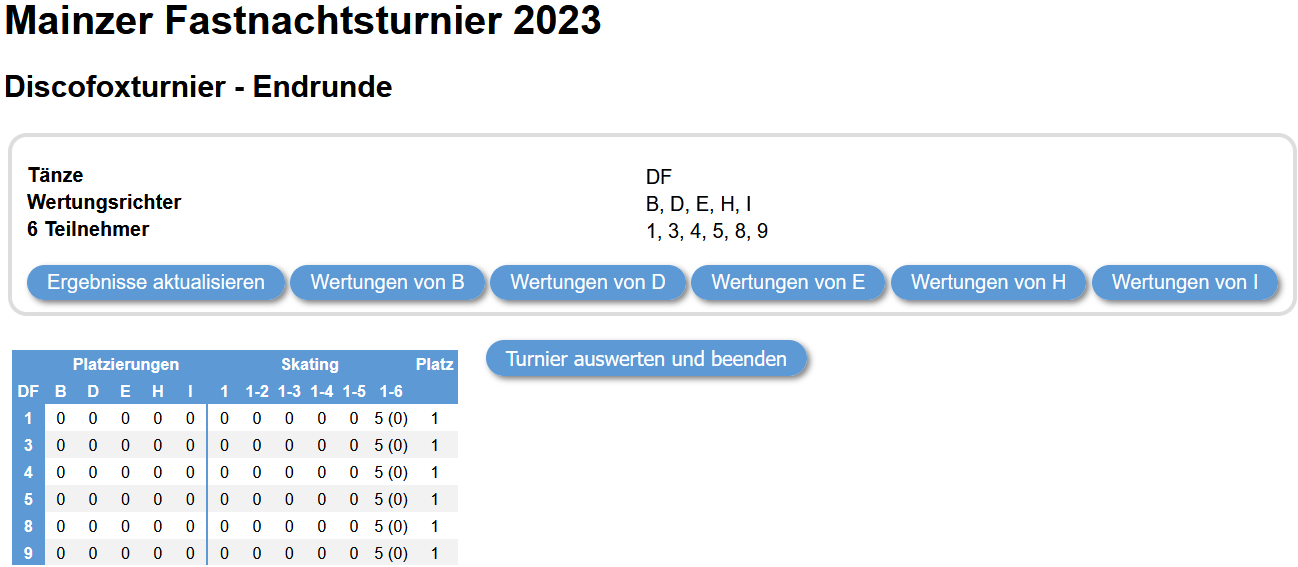
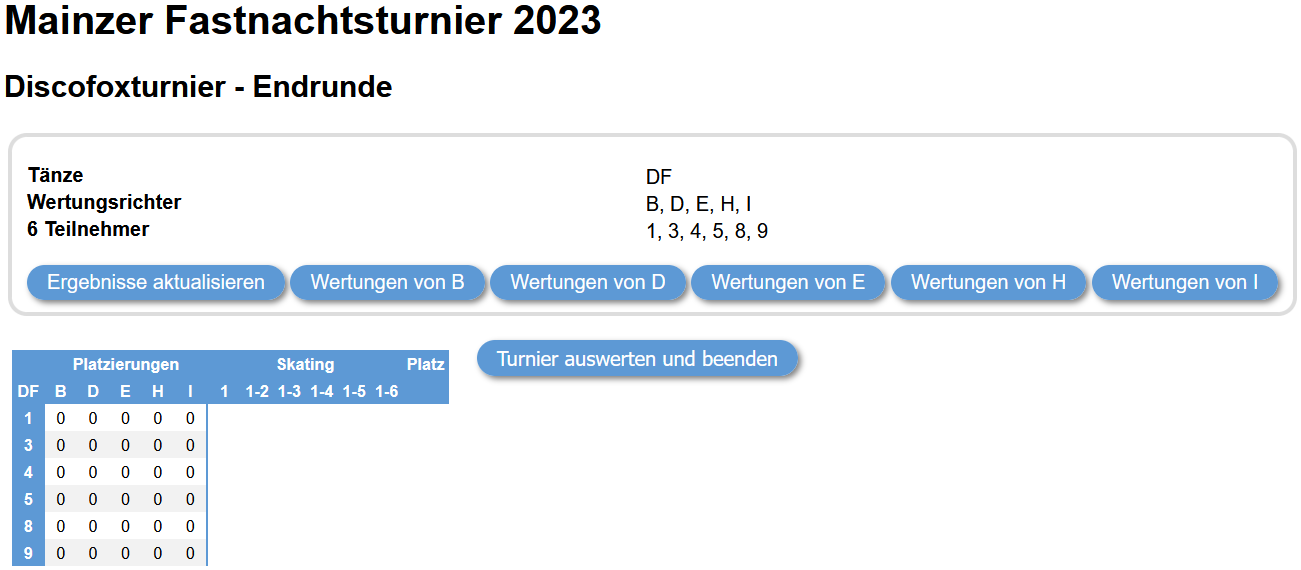
implemented tie handling for multi-dance final summaries

diff --git a/main/pydanceweb/pydance_tables.py b/main/pydanceweb/pydance_tables.py
@@ -1,3 +1,4 @@
+import math
 import pandas as pd
 import random
 
@@ -278,6 +279,8 @@ class SkatingTable(CallbackMarkTable):
         marks_per_competitor = {}
         for competitor in competitors:
             marks = list(relevant_df[competitor])
+            if set(marks) == {0}:
+                continue
             if max_mark > 0 and max_mark < len(self.get_competitors()):
                 marks = [x for x in marks if x <= max_mark and x > 0]
             marks_per_competitor[competitor] = marks
@@ -421,20 +424,31 @@ class FinalSummary(CallbackMarkTable):
         self._rule_11_df = pd.DataFrame()
         self._place_df = pd.DataFrame()
 
+    def analyze(self):
         self._apply_rule_9()
-        self._rule_10_df = self._build_rule_10_df()
-        self._rule_11_df = self._build_rule_11_df()
+        self._apply_rule_10()
+        self._apply_rule_11()
 
     def _apply_rule_9(self):
-        # build basic df with columns for the places from the individual dances
-        self._df = pd.DataFrame()
-        for i, skating_table in enumerate(self.skating_tables):
-            # fill place columns per dance
-            place_df = skating_table._place_df
-            place_df.columns = [f'{self._place_column}_{i+1}']
-            self._df = self._df.join(place_df, how='outer')
+        if self._df.empty:
+            # build basic df with columns for the places from the individual dances
+            self._df = pd.DataFrame()
+            for i, skating_table in enumerate(self.skating_tables):
+                # fill place columns per dance
+                place_df = skating_table._place_df.copy()
+                column = f'{self._place_column}_{i+1}'
+                place_df.columns = [column]
+
+                # calculate mean for tied competitors
+                for current_place, tied_competitors in FinalSummary._get_competitors_per_place(place_df[column]).items():
+                    if len(tied_competitors) > 1:
+                        mean_place = current_place + (len(tied_competitors) - 1) * .5
+                        for competitor in tied_competitors:
+                            place_df.at[competitor, column] = mean_place
+                self._df = self._df.join(place_df, how='outer')
 
         # add sum column
+        self._df[self._rule_9_calculation_column] = 0
         self._df[self._rule_9_calculation_column] = sum([self._df[x] for x in self._df.columns])
 
         # rule 9: set places by sorting the sums in descending order
@@ -450,18 +464,80 @@ class FinalSummary(CallbackMarkTable):
                 current_place = n
             self._place_df[self._place_column].loc[competitor] = current_place
 
-    def _build_rule_10_df(self):
-         # TODO add first tie breaker for multi-dance section results # MEMO: doesn't matter for the Fastnachtsturnier
-        df = pd.DataFrame()
-        return df
+    def _apply_rule_10(self):
+        df = pd.DataFrame(columns=[SkatingTable.build_calculation_column(x + 1) for x in range(len(self._df))])
+        for current_place in range(1, len(self._place_df) + 1):
+            tied_competitors = FinalSummary._get_competitors_per_place(self._place_df[self._place_column])[current_place]
+            if len(tied_competitors) > 1:
+                relevant_places_per_competitor = {}
+                for competitor in tied_competitors:
+                    relevant_places = [x for x in self._df.loc[competitor] if x > 0 and x <= current_place]
+                    relevant_places_per_competitor[competitor] = relevant_places
+                    df.at[competitor, SkatingTable.build_calculation_column(current_place)] = str(len(relevant_places))
 
-    def _build_rule_11_df(self):
-         # TODO add second tie breaker for multi-dance section results # MEMO: doesn't matter for the Fastnachtsturnier
+                competitors_per_place_count = SkatingTable.get_competitors_per_mark_count(relevant_places_per_competitor)
+                max_place_count = sorted(competitors_per_place_count)[-1]
+                if len(competitors_per_place_count[max_place_count]) == 1:
+                    best_competitor = competitors_per_place_count[max_place_count][0]
+                    for competitor in tied_competitors:
+                        if competitor != best_competitor:
+                            self._place_df.at[competitor, self._place_column] = current_place + 1
+                else:
+                    current_tied_competitors = competitors_per_place_count[max_place_count]
+                    current_relevant_places_per_competitor = {competitor: relevant_places_per_competitor[competitor] for competitor in current_tied_competitors}
+                    for competitor in current_relevant_places_per_competitor:
+                        df.at[competitor, SkatingTable.build_calculation_column(current_place)] = f'{len(current_relevant_places_per_competitor[competitor])} ({sum(current_relevant_places_per_competitor[competitor])})'
+
+                    competitors_per_place_sum = SkatingTable.get_competitors_per_mark_sum(current_relevant_places_per_competitor)
+                    min_place_sum = sorted(competitors_per_place_sum)[0]
+                    if len(competitors_per_place_sum[min_place_sum]) == 1:
+                        best_competitor = competitors_per_place_sum[min_place_sum][0]
+                        for competitor in tied_competitors:
+                            if competitor != best_competitor:
+                                self._place_df.at[competitor, self._place_column] = current_place + 1
+                    else:
+                        best_competitors = competitors_per_place_sum[min_place_sum]
+                        for competitor in tied_competitors:
+                            if competitor not in best_competitors:
+                                self._place_df.at[competitor, self._place_column] = current_place + len(best_competitors)
+                        # break tie with rule 11
+            if len(df) > 0:
+                self._rule_10_df = df.fillna('-')
+
+    def _apply_rule_11(self):
         df = pd.DataFrame()
-        return df
+        if len(self.skating_tables) == 0:
+            return
+
+        for current_place, tied_competitors in FinalSummary._get_competitors_per_place(self._place_df[self._place_column]).items():
+            if len(tied_competitors) > 1:
+                current_df = SkatingTable()
+                current_df._df = pd.DataFrame(index=self.get_competitors())
+                for i, skating_table in enumerate(self.skating_tables):
+                    current_df._df = current_df._df.join(skating_table._df.loc[tied_competitors].add_prefix(f'.{i+1}'), how='outer').fillna(0).astype(int)
+                current_df.analyze()
+                current_df._df = current_df._df.loc[tied_competitors]
+                for competitor in tied_competitors:
+                    place = current_df._place_df.at[competitor, self._place_column] + current_place - 1
+                    current_df._place_df.at[competitor, self._place_column] = place
+                    self._place_df.at[competitor, self._place_column] = place
+                df = df.join(current_df._calculation_df.loc[tied_competitors].T, how='outer')#.fillna('-')
+        self._rule_11_df = df.T.fillna('-')
+
+    def _get_competitors_per_place(place_column):
+        place_per_competitor = place_column.sort_values().to_dict()
+        competitors_per_place = {}
+        for competitor in place_per_competitor:
+            place = place_per_competitor[competitor]
+            if place in competitors_per_place:
+                competitors_per_place[place].append(competitor)
+            else:
+                competitors_per_place[place] = [competitor]
+        return competitors_per_place
+
 
     def to_frame(self):
-        df = self._df.join(self._rule_10_df, how='outer') # TODO: prefix columns to avoid conflicts !!!
-        df = df.join(self._rule_11_df, how='outer') # TODO: prefix columns to avoid conflicts !!!
-        df = df.join(self._place_df, how='outer')
-        return df.copy()
+        df = self._df.join(self._place_df, how='outer')
+        df = df.join(self._rule_10_df.add_prefix('R10_'), how='outer') # TODO: prefix columns to avoid conflicts !!!
+        df = df.join(self._rule_11_df.add_prefix('R11_'), how='outer') # TODO: prefix columns to avoid conflicts !!!
+        return df.fillna('-').copy()

diff --git a/README.md b/README.md
@@ -210,5 +210,4 @@ While the app is fully functional (especially for single dance sections), there 
 - make it possible to remove the last running round of a section
 - make it possible to redraw the heats from  the tournament desk heat view
 - make it possible to add competitors to running sections
-- add rule 10 and 11 to the tabulation of the final summary
 - make it possible to also use rule 10 for additional awards
